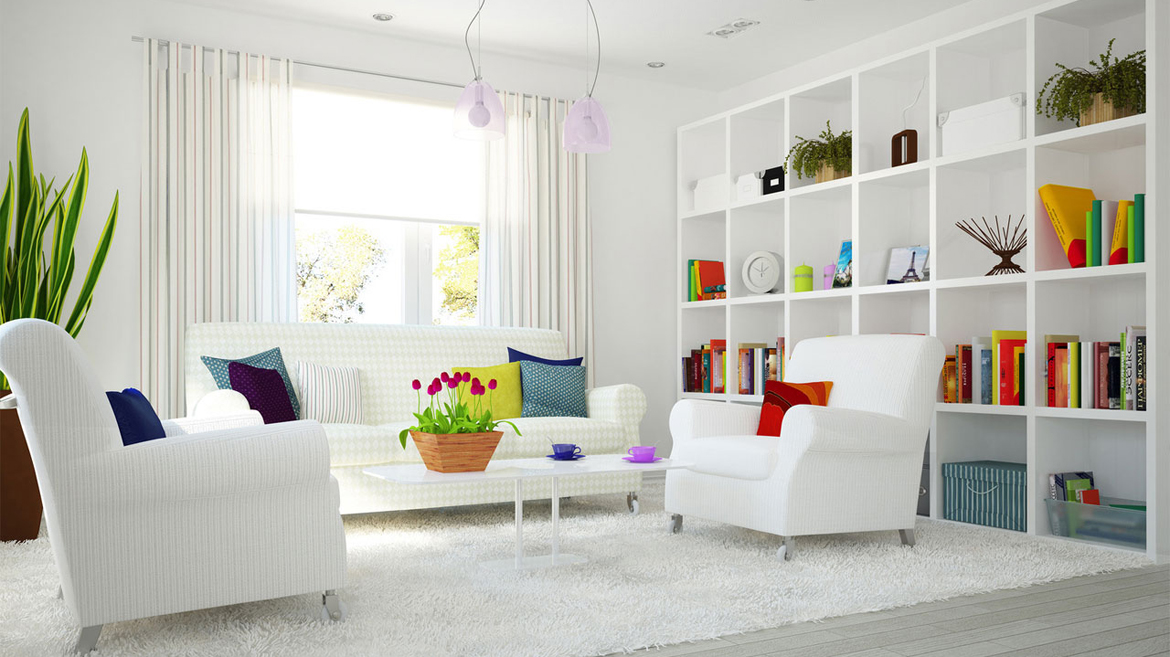
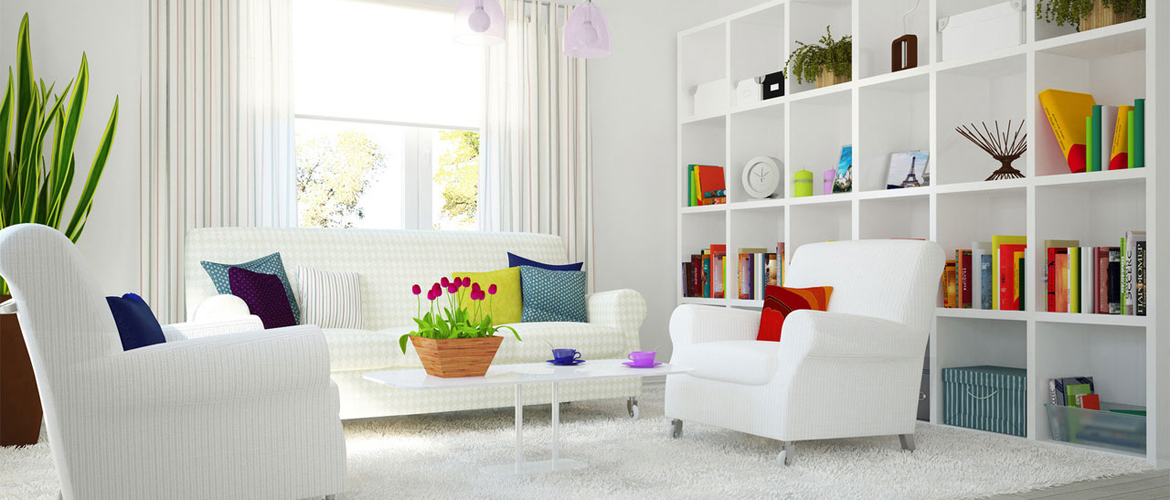
TEACHER HERE IS YOUR CHANGE FILES 10

diff --git a/public/dist/css/style.css b/public/dist/css/style.css
@@ -366,6 +366,29 @@ h6 {
   width: 100%;
 }
 
+/*-----------------
+Search
+-----------------*/
+.search_box{
+  position: absolute;
+  top: 5px;
+  right: 0px;
+  width: 200px;
+}
+.stylish-input-group .input-group-addon{
+    background: white !important; 
+}
+.stylish-input-group .form-control{
+  border-right:0; 
+  box-shadow:0 0 0; 
+  border-color:#ccc;
+   border-radius:0;
+}
+.stylish-input-group button{
+    border:0;
+    background:transparent;
+}
+
 /*
 .main-menu ul {
   position: absolute;
@@ -435,6 +458,8 @@ h6 {
 
 .bx-wrapper img {
   opacity: 0.8;
+  height: 500px;
+  width: 100%;
   filter: alpha(opacity=80);
 }
 
@@ -443,7 +468,7 @@ h6 {
 }
 
 .bx-thumbnail-wrapper {
-  background-color: #85c91c;
+  background-color: #61bb10;
   text-align: center;
   margin-top: -1px;
   position: relative;
@@ -470,13 +495,13 @@ h6 {
   color: #FFF;
 }
 #bx-pager{
-  background-color: #424443;
+  background-color: #dcdcdc;
 }
 #bx-pager a {
   margin: 10px 10px 0 10px;
   padding: 0 0 10px 0;
   display: inline-block;
-  opacity: 0.4;
+  opacity: 0.7;
   filter: alpha(opacity=40);
   outline: 0;
   border: 0;
@@ -529,13 +554,13 @@ h6 {
 }
 
 .box_intro_services{
-  background-color: #424443;
+  background-color: #e5e5e5;
   text-align: center;
   padding: 10px 0;
 }
 .box_intro_services h3{
   font-size: 16px;
-  color: #FFF;
+  color: #424443;
   padding: 10px 0;
   margin: 0px;
 
@@ -603,7 +628,7 @@ h6 {
   height: 60px;
   line-height: 60px;
   margin-left: 0px;
-  background: #e0e0e0;
+  background: #FFF;
 }
 .owl-prev:after {
   font-family: "FontAwesome";
@@ -627,7 +652,7 @@ h6 {
   height: 60px;
   line-height: 60px;
   margin-right: 0px;
-  background: #e0e0e0;
+  background: #FFF;
 }
 .owl-next:after {
   font-family: "FontAwesome";
@@ -706,6 +731,7 @@ Footer Site
   color: #FFF;
   padding: 20px 0;
 }
+
 
 /*------------------------------------------------------
   RESPONSIVE STYLES 

diff --git a/public/plugins/dropdown-menu/css/component.css b/public/plugins/dropdown-menu/css/component.css
@@ -34,7 +34,7 @@
 	width: 100%;
 	max-width: 69em;
 	margin: 0 auto;
-	padding-left: 220px;
+	padding-left: 150px;
 }
 
 

diff --git a/resources/views/app.blade.php b/resources/views/app.blade.php
@@ -74,28 +74,27 @@ type='text/css'>
         <div class="site-header">
             <div class="container">
                 <div class="row">
-                    <div class="col-md-4 col-sm-6 col-xs-6 bg-adjust">
+                    <div class="col-md-3 col-sm-6 col-xs-6 bg-adjust">
                         <div id="greenad_logo">
                            <img src="images/green-logo.png" alt="logo">
                         </div> <!-- /.logo -->
                     </div> <!-- /.col-md-4 -->
-                    <div class="col-md-8 col-sm-6 col-xs-6 bg-adjust main-menu-bg">
+                    <div class="col-md-9 col-sm-6 col-xs-6 bg-adjust main-menu-bg">
                        
                         <a href="#" class="toggle-menu"><i class="fa fa-bars"></i></a>     
                         <div class="top_bar  main-menu">
                     		<div class="row">
-                    			<div class="col-md-5">
-                    			 	<h1> Green Architecture & Design Co,. Ltd.</h1>
-                    			</div>
-                    			 <div class="col-md-3">
-                    			 	<i class="glyphicon glyphicon-earphone"> </i> (+855)81 799 961
-                    			 </div>
-                    			 <div class="col-md-4">
-                    			 	Language: <img src="images/kh_lan.gif">
-                    			 	<img src="images/en_lan.gif">
-                    			 	<img src="images/ch_lan.gif">
-                    			 </div>
-                    		</div>
+                                <div class="col-md-7">
+                                    <h1> Green Global Architecture Design & Construction Co., Ltd.</h1>
+                                </div>
+                                 <div class="col-md-5">
+                                    <i class="glyphicon glyphicon-earphone"> </i> <b>(+855)81 799 961</b>
+                                 
+                                    &nbsp&nbsp&nbsp&nbspLanguage: <img src="images/kh_lan.gif">
+                                    <img src="images/en_lan.gif">
+                                    <img src="images/ch_lan.gif">
+                                 </div>
+                            </div>
                         	
                          </div>
                     </div> <!-- /.col-md-8 -->
@@ -182,6 +181,18 @@ type='text/css'>
                             </li>
                             <li><a href="#">ABOUT US</a></li>
                             <li><a href="#">CONTACT</a></li>
+                            <!--search box-->
+                            <div class="search_box"> 
+                                <div class="input-group stylish-input-group">
+                                    <input type="text" class="form-control"  placeholder="Search" >
+                                    <span class="input-group-addon">
+                                        <button type="submit">
+                                            <span class="glyphicon glyphicon-search"></span>
+                                        </button>  
+                                    </span>
+                                </div>
+                             </div>
+                             <!--search box-->
                         </ul>
                     </div>
                 </nav>
